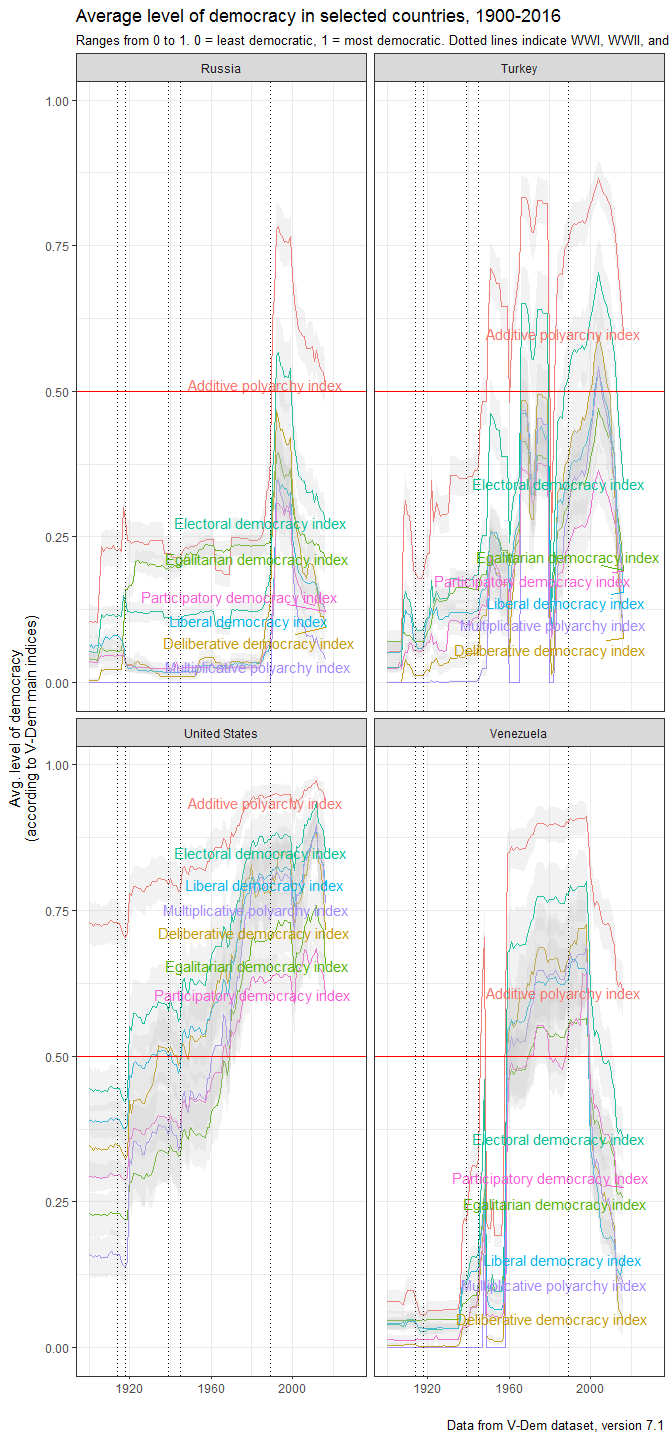
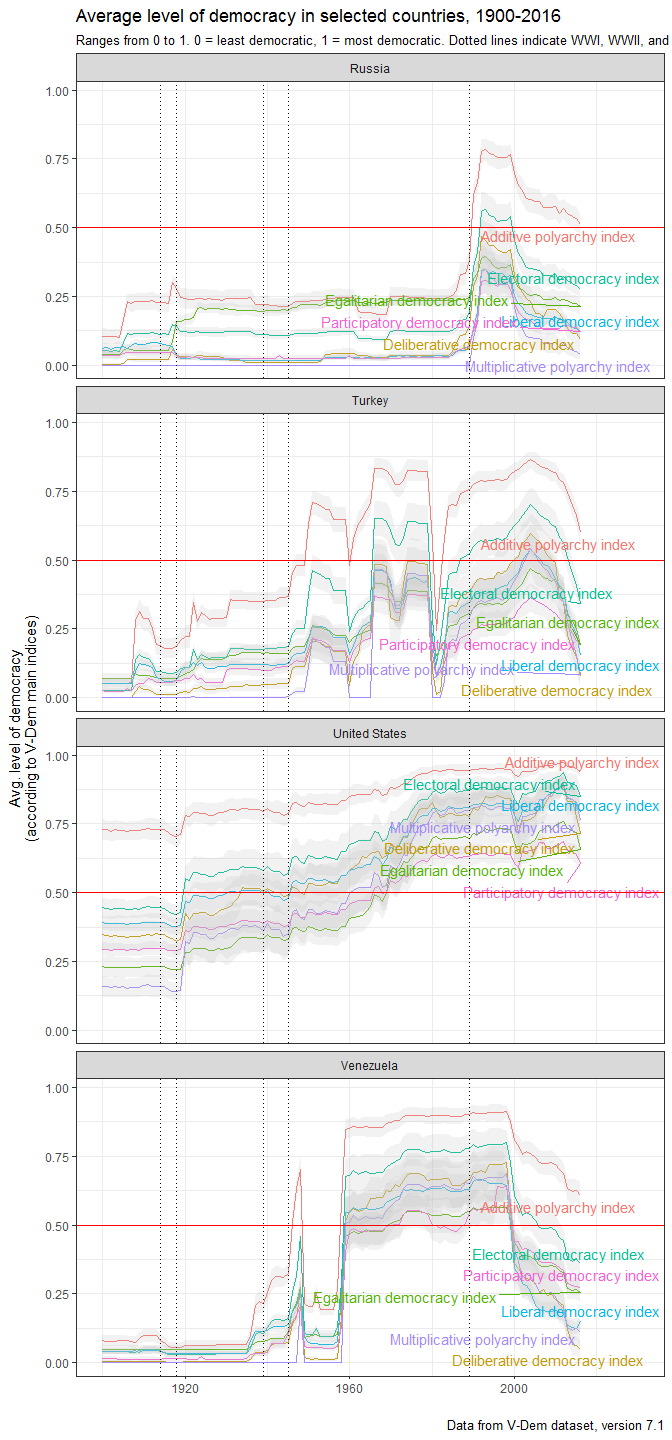
Fixed last image in README

diff --git a/README.md b/README.md
@@ -327,7 +327,7 @@ ggplot(data) +
   geom_vline(xintercept = c(1914, 1918, 1939, 1945, 1989), linetype = 3) +
   geom_hline(yintercept = 0.5, color = "red") +
   coord_cartesian(xlim = c(1900, 2030)) +
-  facet_wrap(~vdem_country_name, nrow = 2)
+  facet_wrap(~vdem_country_name, ncol = 1)
 ```
 
 ![](README-unnamed-chunk-8-1.png)
